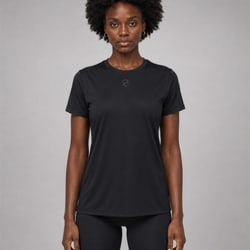
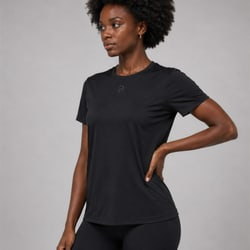
Women's T-Shirt: side view leads everywhere
Gallery photos 1 and 2 swapped (side view first). The straight front is now
tshirt-w-front.jpg and tshirt-w.jpg is the side view, so the bag, search and
quick add match. Shop All card: side view, front on hover. Share image rebuilt.

diff --git a/product.html b/product.html
@@ -375,7 +375,7 @@ const PRODUCTS={
   'high-impact-bra':{name:'High Impact Sports Bra',gender:"Women's",price:'KES 4,950',priceVal:4950,image:'images/high-impact-bra-side.jpg',images:['images/high-impact-bra-side.jpg','images/high-impact-bra-back.jpg','images/high-impact-bra-front.jpg','images/high-impact-bra-closeup.jpg','images/high-impact-bra-three-quarter.jpg','images/high-impact-bra-back-three-quarter.jpg','images/high-impact-bra-full-front.jpg','images/high-impact-bra-full-back.jpg'],sizes:['S','M','L','XL','XXL'],desc:"Maximum support for running, HIIT, and high-intensity training. Wide underband and reinforced straps keep everything locked in place. Moisture-wicking inner lining and built-in moulded padding.",details:['Maximum support rating','Wide reinforced underband','Adjustable underband strap','Crossover back straps','Built-in moulded padding','Moisture-wicking inner lining','Fabric: Body Fabric: 75% Polyamide, 25% Elastane / Inner Fabric: 90% Polyester, 10% Elastane Jacquard Tricot / Mesh: 88% Polyamide, 12% Elastane Mesh']},
   'low-impact-bra':{name:'Low Impact Sports Bra',gender:"Women's",price:'KES 4,450',priceVal:4450,image:'images/low-impact-bra.jpg',images:['images/low-impact-bra.jpg','images/low-impact-bra-back.jpg','images/low-impact-bra-side.jpg','images/low-impact-bra-front.jpg'],sizes:['S','M','L','XL','XXL'],desc:"Lightweight and breathable for yoga, pilates, stretching, and low-intensity sessions. Scoop neck with a clean racerback silhouette. Removable padding, soft-touch fabric.",details:['Light support rating','Racerback silhouette','Scoop neckline','Removable padding','Soft-touch four-way stretch fabric','Fabric: Body Fabric: 82% Polyamide, 18% Elastane / Mesh: 88% Polyamide, 12% Elastane Mesh']},
   'jacket-w':{name:"Women's Jacket",gender:"Women's",price:'KES 7,200',priceVal:7200,image:'images/jacket-w.jpg',images:['images/jacket-w.jpg','images/jacket-w-front-angle.jpg','images/jacket-w-back-angle.jpg','images/jacket-w-back.jpg'],sizes:['S','M','L','XL','XXL'],desc:"A versatile training jacket built for warm-ups, cool-downs, and everything in between. Two side pockets and a straight fit.",details:['Full-length zip front','Two side zip pockets','Straight fit','Fabric: 100% Polyester']},
-  'tshirt-w':{name:"Women's T-Shirt",gender:"Women's",price:'KES 4,200',priceVal:4200,image:'images/tshirt-w.jpg',images:['images/tshirt-w.jpg','images/tshirt-w-front-angle.jpg','images/tshirt-w-back.jpg','images/tshirt-w-detail.jpg','images/tshirt-w-movement.jpg'],sizes:['S','M','L','XL','XXL'],desc:"A clean training tee built for movement. Lightweight moisture-wicking fabric, a relaxed fit that stays in place, and a full-length hem. Wear it to the gym, on a run, or straight after.",details:['Moisture-wicking fabric','Relaxed fit, full length','Crew neck','Flatlock shoulder seams','Fabric: 89% Polyester, 11% Elastane']},
+  'tshirt-w':{name:"Women's T-Shirt",gender:"Women's",price:'KES 4,200',priceVal:4200,image:'images/tshirt-w-front-angle.jpg',images:['images/tshirt-w-front-angle.jpg','images/tshirt-w-front.jpg','images/tshirt-w-back.jpg','images/tshirt-w-detail.jpg','images/tshirt-w-movement.jpg'],sizes:['S','M','L','XL','XXL'],desc:"A clean training tee built for movement. Lightweight moisture-wicking fabric, a relaxed fit that stays in place, and a full-length hem. Wear it to the gym, on a run, or straight after.",details:['Moisture-wicking fabric','Relaxed fit, full length','Crew neck','Flatlock shoulder seams','Fabric: 89% Polyester, 11% Elastane']},
   'tshirt-m':{name:"Men's T-Shirt",gender:"Men's",price:'KES 4,200',priceVal:4200,image:'images/tshirt-m.jpg',images:['images/tshirt-m.jpg','images/tshirt-m-side.jpg','images/tshirt-m-back.jpg'],sizes:['S','M','L','XL','XXL'],desc:"A training tee that does its job without getting in the way. Sweat-wicking fabric, a clean regular fit, and a slightly dropped hem. Equally at home in the gym or on the way there.",details:['Moisture-wicking fabric','Regular fit with dropped hem','Crew neck','Flatlock shoulder seams','Fabric: 89% Polyester, 11% Elastane']},
   'quarter-zip-m':{name:"Men's Quarter Zip",gender:"Men's",price:'KES 5,600',priceVal:5600,image:'images/quarter-zip-m.jpg',images:['images/quarter-zip-m.jpg','images/quarter-zip-m-front.jpg','images/quarter-zip-m-side.jpg','images/quarter-zip-m-seated.jpg'],sizes:['S','M','L','XL','XXL'],desc:"The warm-up layer you'll reach for every session. Quarter-zip collar, flatlock seams, and a clean minimal aesthetic. Lightweight enough to keep on during training.",details:['Quarter-zip collar','Flatlock seam construction','Regular straight fit','Moisture-wicking fabric','Fabric: 83% Polyester, 17% Elastane']},
   'shorts-m':{name:"Men's Shorts",gender:"Men's",price:'KES 6,050',priceVal:6050,image:'images/shorts-m-crop.jpg',images:['images/shorts-m-crop.jpg','images/shorts-m.jpg','images/shorts-m-side.jpg','images/shorts-m-back.jpg'],sizes:['S','M','L','XL','XXL'],desc:"Lightweight training shorts with an internal compression liner. Elastic waistband with drawcord. Side slit hem for full range of movement. Rear zip pocket.",details:['Internal compression liner','Elastic waistband with drawcord','Side slit hem','Rear zip pocket','Quick-dry fabric','Fabric: Outer Body: 92% Polyester, 8% Elastane / Outer Insert Fabric: 88% Polyester, 12% Elastane / Inner Layer Fabric: 88% Polyamide, 12% Elastane']},

diff --git a/collections.html b/collections.html
@@ -197,8 +197,8 @@
       <!-- T-Shirt W -->
       <div class="prod-card fu" data-gender="women" data-cat="tops">
         <div class="relative" style="aspect-ratio:3/4;overflow:hidden;background:#f3f4f6;">
-          <img src="images/tshirt-w.jpg" alt="Women's T-Shirt" style="width:100%;height:100%;object-fit:cover;object-position:center;display:block;">
-          <img src="images/tshirt-w-front-angle.jpg" alt="" aria-hidden="true" class="card-hover-img" loading="lazy" decoding="async">
+          <img src="images/tshirt-w-front-angle.jpg" alt="Women's T-Shirt" style="width:100%;height:100%;object-fit:cover;object-position:center;display:block;">
+          <img src="images/tshirt-w-front.jpg" alt="" aria-hidden="true" class="card-hover-img" loading="lazy" decoding="async">
           <button class="add-btn" onclick="addToBag('tshirt-w','Women\'s T-Shirt',4200)">Add to Bag</button>
         </div>
         <div class="p-4">
